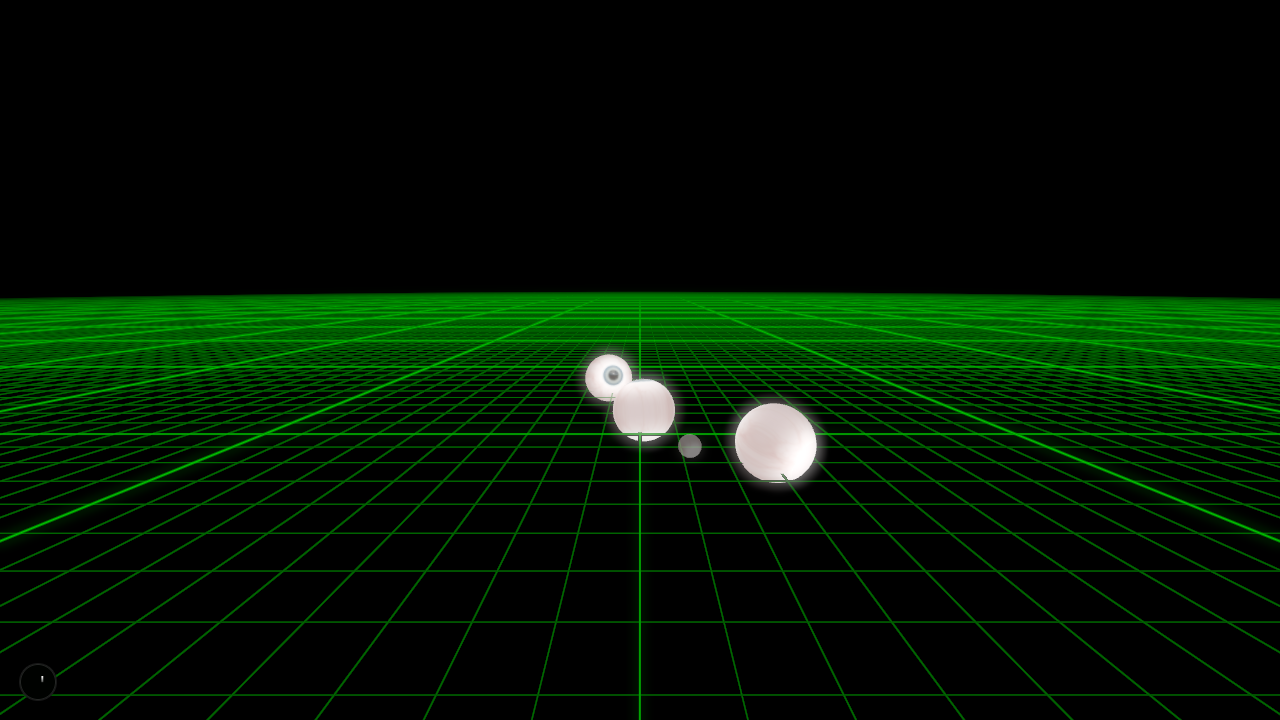
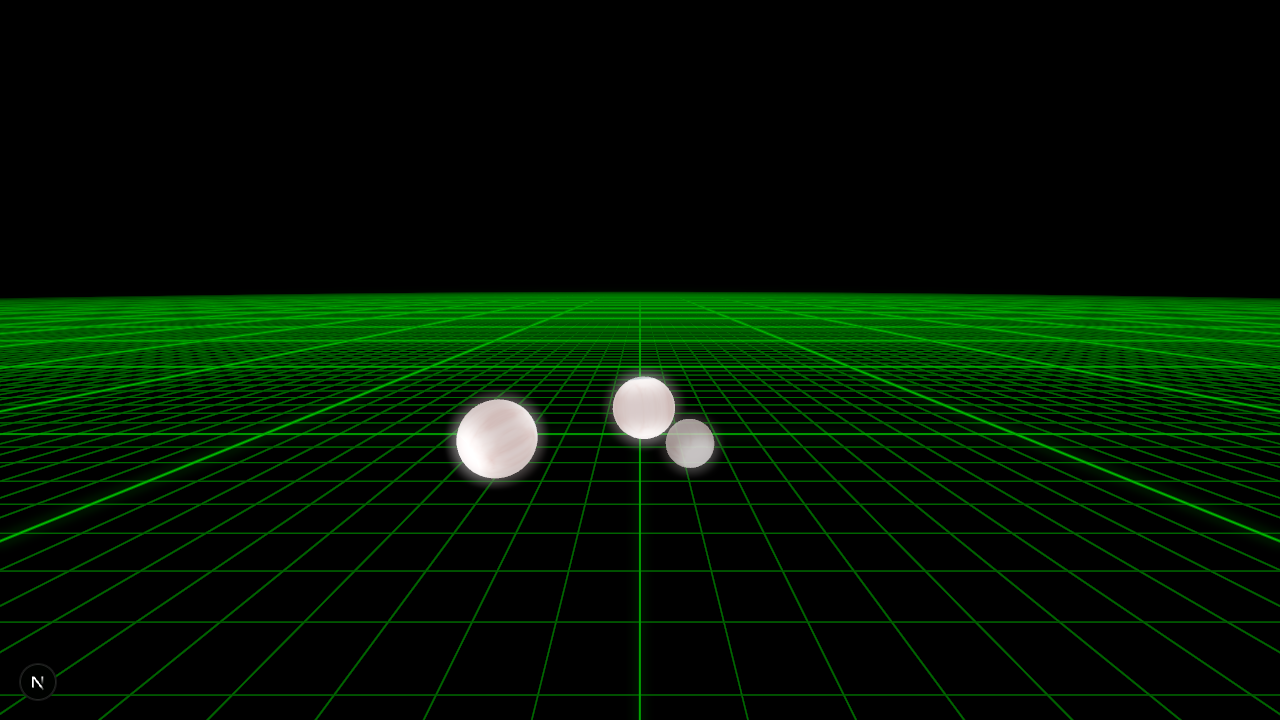
Fix: Resolve eyeball/grid flickering and pass all checks

Changed region(s): [[0.3438, 0.4583, 0.6562, 0.7028]]

diff --git a/src/app/components/Eye.tsx b/src/app/components/Eye.tsx
@@ -4,10 +4,10 @@ import React from "react";
 import { Group, Vector3 } from "three";
 
 import { SYMBOLS } from "@/domain";
+import { EYE_RADIUS } from "@/domain/sceneConstants";
 import { ManagedEye } from "@/stores/eyesStore";
 import { RemoteKeyState } from "@/stores/symbolStore";
 
-const EYE_RADIUS = 8;
 const GREEN = "#00FF41";
 const TEXT_FADE_DURATION_MS = 2000;
 

diff --git a/tests/basic.spec.ts b/tests/basic.spec.ts
@@ -115,6 +115,10 @@ test("original: has title and receives initial event data", async ({
   page,
   request,
 }) => {
+  page.on("console", (msg) =>
+    console.log(`BROWSER CONSOLE: ${msg.type()}: ${msg.text()}`),
+  );
+
   const postData = {
     type: "eyeUpdate",
     id: "test-eye",

diff --git a/src/app/components/Scene.tsx b/src/app/components/Scene.tsx
@@ -81,7 +81,7 @@ const Scene = () => {
 
   return (
     <Canvas
-      camera={{ position: [0, 20, 120], near: 0.1, far: 4000 }}
+      camera={{ position: [0, 20, 120], near: 1, far: 2500 }}
       style={{ width: "100%", height: "100%" }}
       shadows
     >

diff --git a/src/domain/sceneConstants.ts b/src/domain/sceneConstants.ts
@@ -1,3 +1,3 @@
-export const EYE_DIAMETER = 5;
+export const EYE_RADIUS = 8;
 export const GRID_Y_POSITION = -20;
-export const EYE_Y_POSITION = GRID_Y_POSITION + EYE_DIAMETER * 1.5;
+export const EYE_Y_POSITION = GRID_Y_POSITION + EYE_RADIUS + 0.1;
